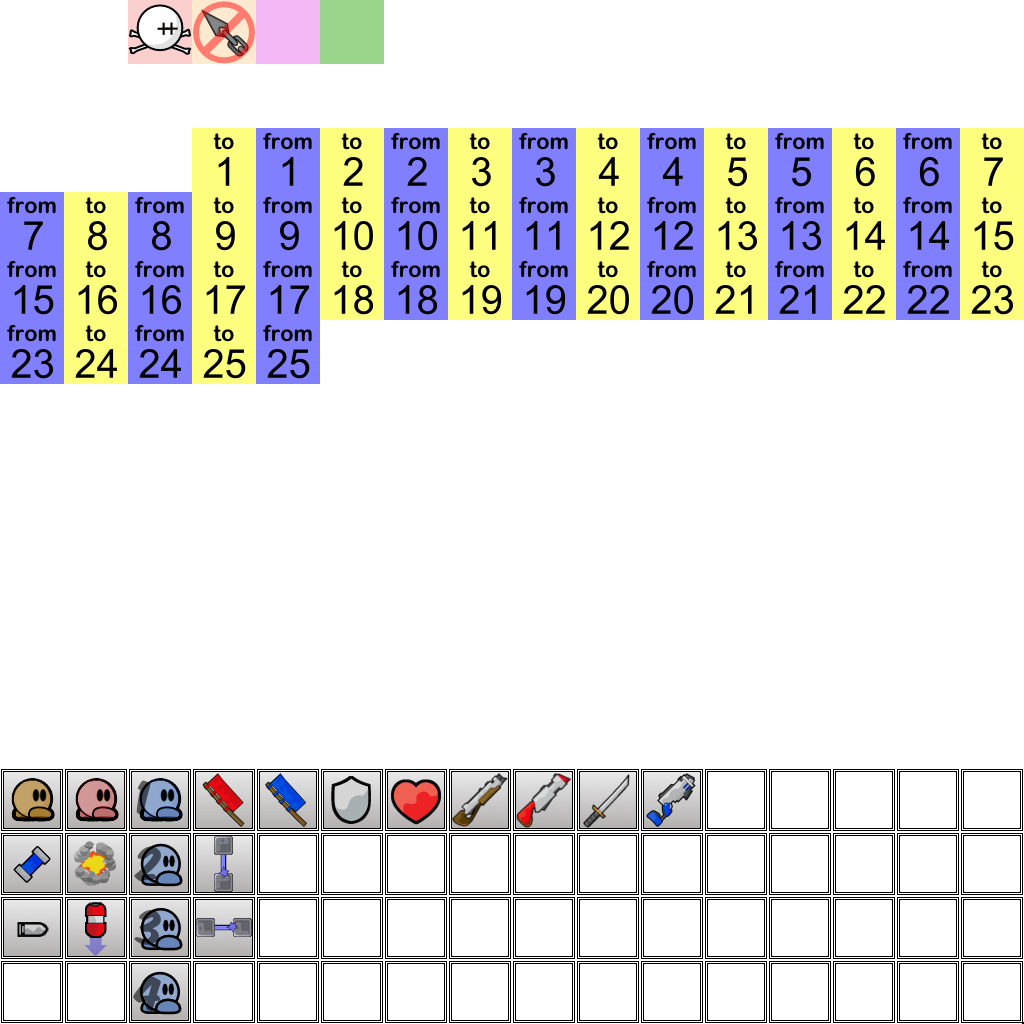
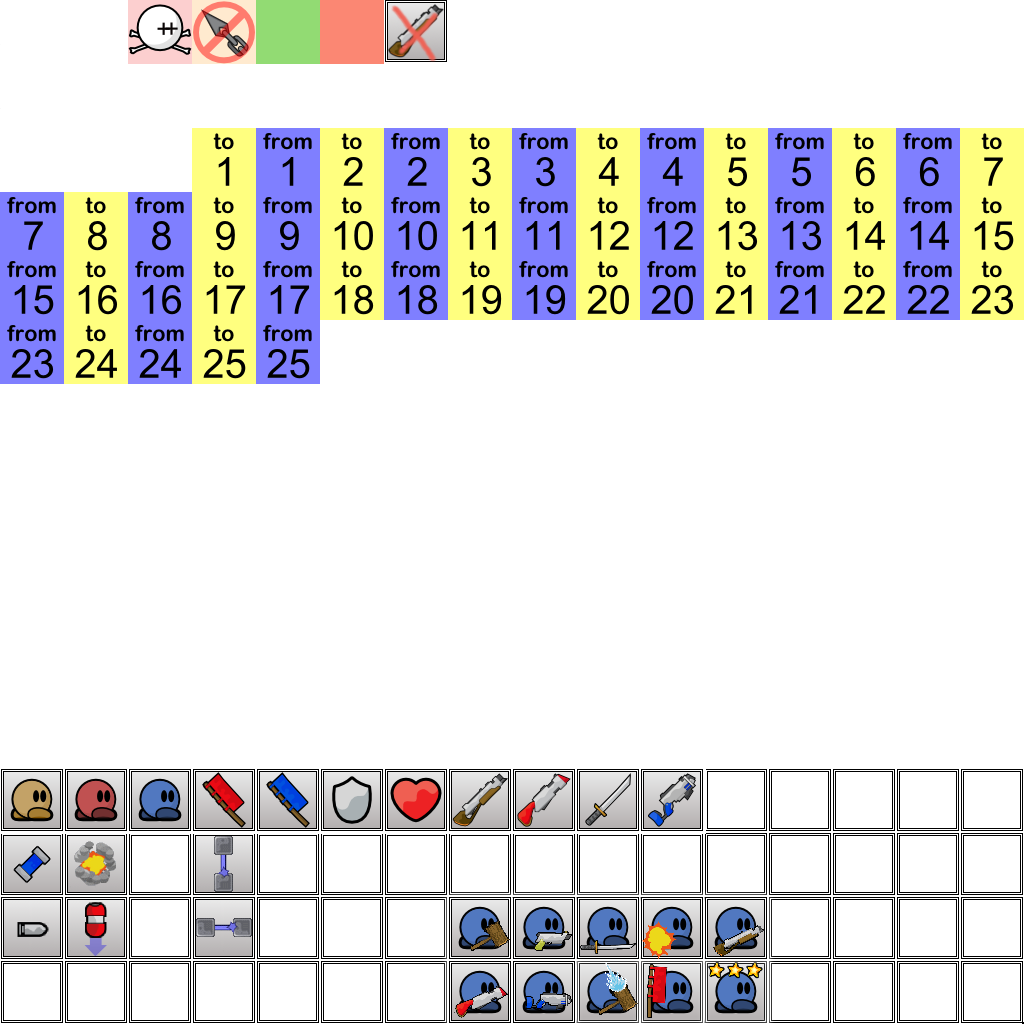
BACKWARDS INCOMPATBILE COMMIT! Added new entities for bot spawning. Removed the old ones.

diff --git a/src/game/server/gamemodes/exp/exp.cpp b/src/game/server/gamemodes/exp/exp.cpp
@@ -116,16 +116,16 @@ bool CGameControllerEXP::OnEntity(int Index, vec2 Pos)
 	}
 
 	switch (Index) {
-	case ENTITY_SPAWN_BOT_LEVEL_1:
+	case ENTITY_SPAWN_BOT_PISTOL:
 		OnBotEntity(BOTTYPE_PISTOL, Pos);
 		break;
-	case ENTITY_SPAWN_BOT_LEVEL_2:
-		OnBotEntity(BOTTYPE_NINJA, Pos);
+	case ENTITY_SPAWN_BOT_KAMIKAZE:
+		OnBotEntity(BOTTYPE_KAMIKAZE, Pos);
 		break;
-	case ENTITY_SPAWN_BOT_LEVEL_3:
+	case ENTITY_SPAWN_BOT_SHOTGUN:
 		OnBotEntity(BOTTYPE_SHOTGUN, Pos);
 		break;
-	case ENTITY_SPAWN_BOSS:
+	case ENTITY_SPAWN_BOT_ENDBOSS:
 		if (m_Boss.m_Exist) {
 			dbg_msg("exp", "there can't be 2 boss entities on one map");
 			break;
@@ -247,12 +247,12 @@ bool CGameControllerEXP::OnEntity(int Index, vec2 Pos)
 }
 
 bool CGameControllerEXP::OnBotEntity(int BotType, vec2 pos) {
-	dbg_msg("exp", "bot spawn level %d added (%d)", BotType, m_aNumBotSpawns[BotType - 1]);
-	m_aaBotSpawns[BotType - 1][m_aNumBotSpawns[BotType - 1]].m_Pos = pos;
-	m_aaBotSpawns[BotType - 1][m_aNumBotSpawns[BotType - 1]].m_BotType = BotType;
-	m_aaBotSpawns[BotType - 1][m_aNumBotSpawns[BotType - 1]].m_Spawned = false;
-	m_aaBotSpawns[BotType - 1][m_aNumBotSpawns[BotType - 1]].m_RespawnTimer = Server()->Tick() - (GameServer()->Tuning()->m_RespawnTimer - 2)*Server()->TickSpeed();
-	m_aNumBotSpawns[BotType - 1]++;
+	dbg_msg("exp", "bot spawn level %d added (%d)", BotType, m_aNumBotSpawns[BotType]);
+	m_aaBotSpawns[BotType][m_aNumBotSpawns[BotType]].m_Pos = pos;
+	m_aaBotSpawns[BotType][m_aNumBotSpawns[BotType]].m_BotType = BotType;
+	m_aaBotSpawns[BotType][m_aNumBotSpawns[BotType]].m_Spawned = false;
+	m_aaBotSpawns[BotType][m_aNumBotSpawns[BotType]].m_RespawnTimer = Server()->Tick() - (GameServer()->Tuning()->m_RespawnTimer - 2)*Server()->TickSpeed();
+	m_aNumBotSpawns[BotType]++;
 
 	return false;
 }

diff --git a/src/game/mapitems.h b/src/game/mapitems.h
@@ -31,7 +31,6 @@ enum
 	ENTITY_NULL=0,
 	ENTITY_SPAWN,
 	ENTITY_SPAWN_RED,
-	ENTITY_SPAWN_BOT_LEVEL_1,
 	ENTITY_FLAGSTAND_RED,
 	ENTITY_FLAGSTAND_BLUE,
 	ENTITY_ARMOR_1,
@@ -46,14 +45,22 @@ enum
 	
 	ENTITY_MINE=18,
 	ENTITY_TRAP=34,
-	
-	ENTITY_SPAWN_BOT_LEVEL_2=19,
-	ENTITY_SPAWN_BOT_LEVEL_3=35,
-	ENTITY_SPAWN_BOSS=51,
-	
+		
 	ENTITY_DOOR_VERTICAL=20,
 	ENTITY_DOOR_HORIZONTAL=36,
 	
+	ENTITY_SPAWN_BOT_HAMMER = 40,
+	ENTITY_SPAWN_BOT_PISTOL = 41,
+	ENTITY_SPAWN_BOT_NINJA = 42,
+	ENTITY_SPAWN_BOT_KAMIKAZE = 43,
+	ENTITY_SPAWN_BOT_SHOTGUN = 44,
+
+	ENTITY_SPAWN_BOT_GRENADE = 56,
+	ENTITY_SPAWN_BOT_LASER = 57,
+	ENTITY_SPAWN_BOT_THOR = 58,
+	ENTITY_SPAWN_BOT_FLAGBEARER = 59,
+	ENTITY_SPAWN_BOT_ENDBOSS = 60,
+
 	NUM_ENTITIES=64,
 
 	TILE_AIR=0,
